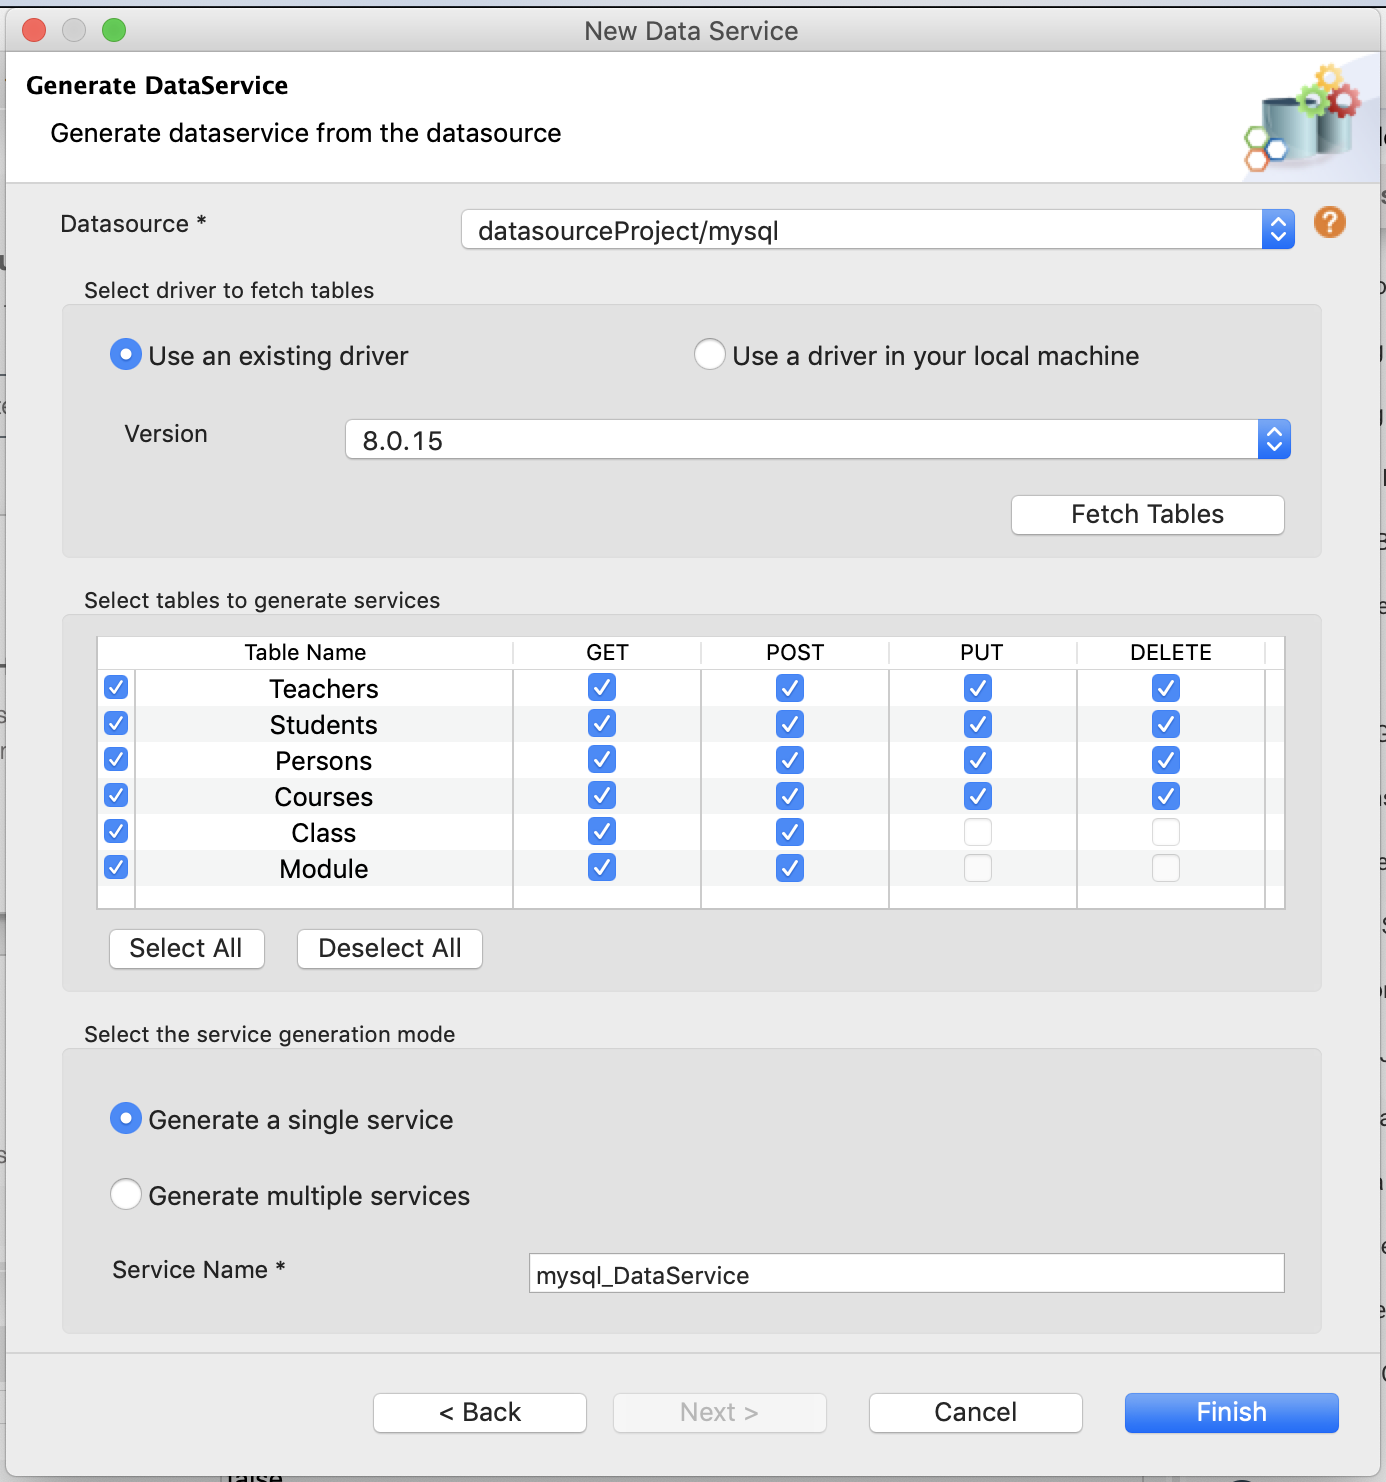
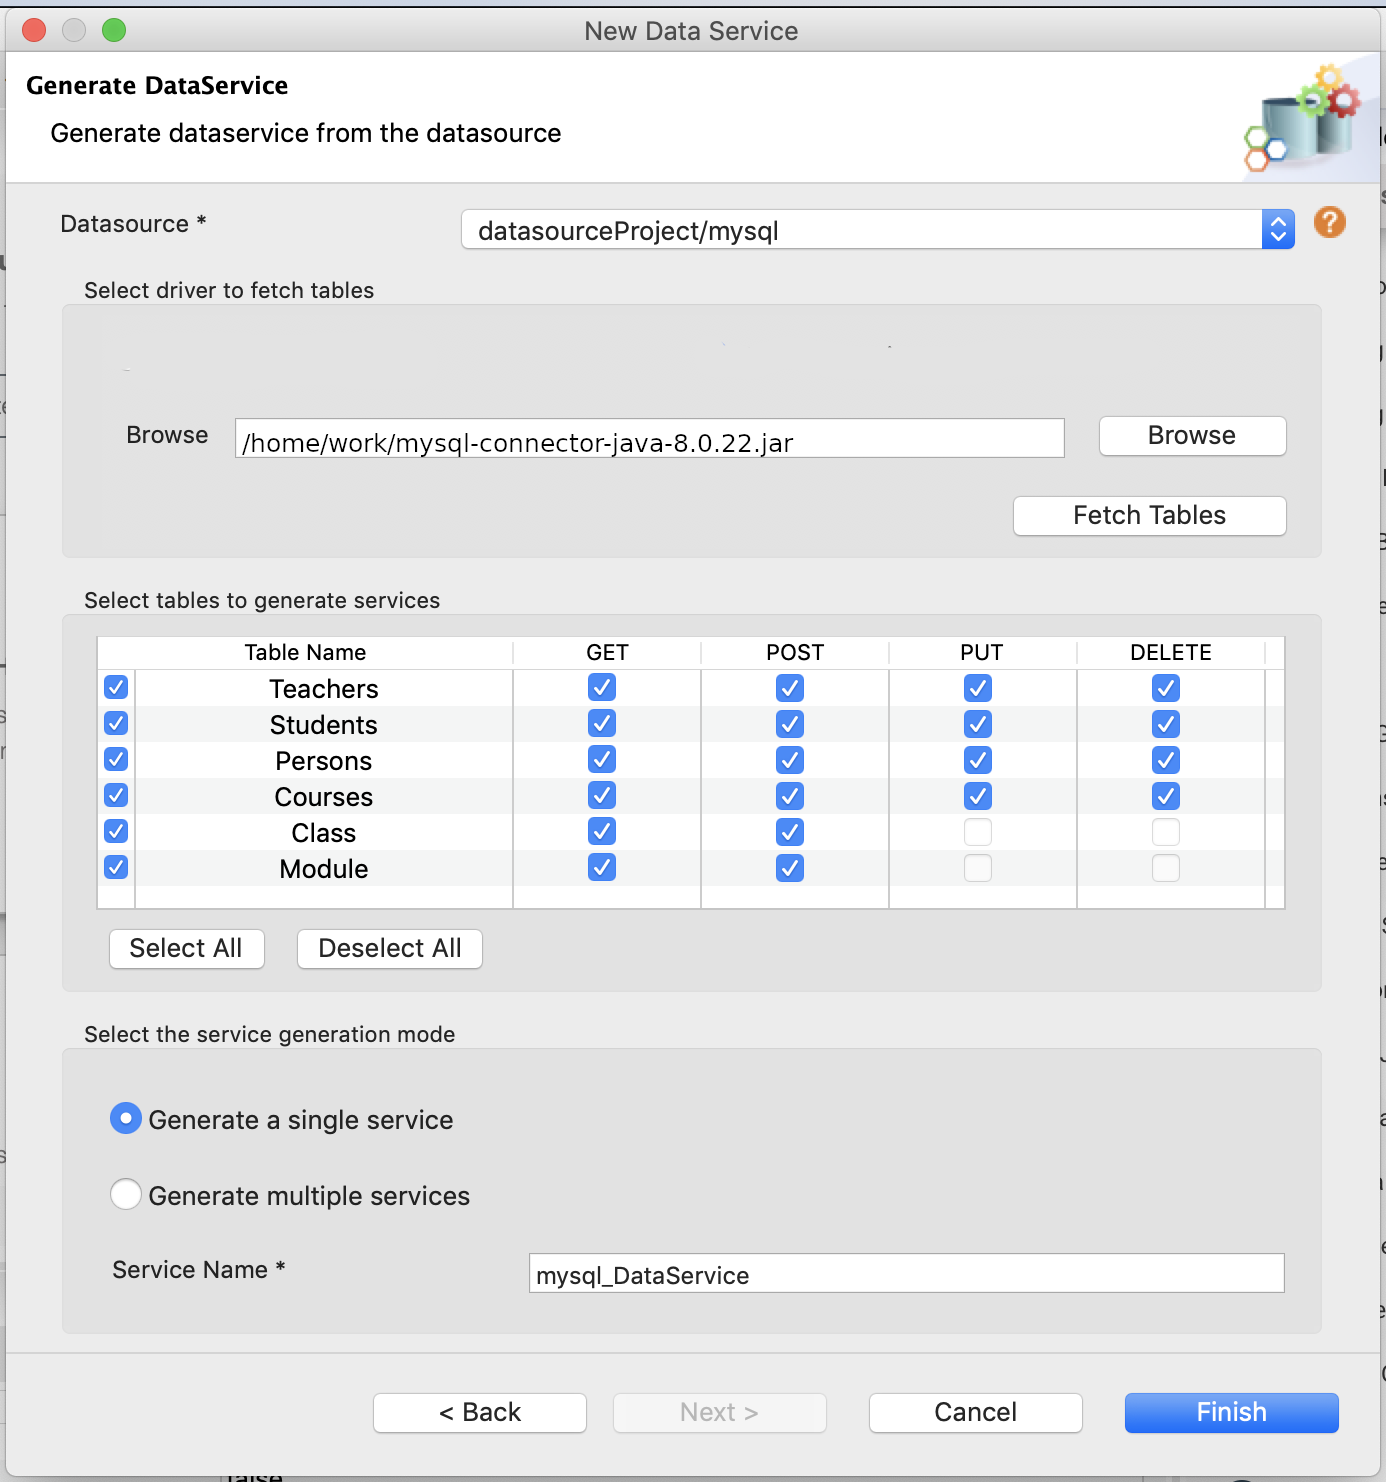
Remove existing JDBC driver option when fetching tables in the dataservice wizard

diff --git a/en/docs/integrate/develop/creating-artifacts/data-services/creating-data-services.md b/en/docs/integrate/develop/creating-artifacts/data-services/creating-data-services.md
@@ -343,14 +343,8 @@ datasource and automatically creates the SELECT, INSERT, UPDATE, and DELETE oper
 	
     <a href="{{base_path}}/assets/img/integrate/tutorials/data_services/generate_dataservice_select_datasource.png"><img src="{{base_path}}/assets/img/integrate/tutorials/data_services/generate_dataservice_select_datasource.png" width="700"></a>
 
-4. 	Select the driver to connect to the datasource. There are two ways to select a driver:
+4. 	Select the driver to connect to the datasource. You need to browse and upload a driver from your file system.
 
-	-	You can use an existing driver from the Integration Studio. You can select the driver version from the drop down.
-
-    <a href="{{base_path}}/assets/img/integrate/tutorials/data_services/select_existing_driver.png"><img src="{{base_path}}/assets/img/integrate/tutorials/data_services/select_existing_driver.png" width="700"></a>
-
-	-	You can browse and upload a driver from your file system.
-	
     <a href="{{base_path}}/assets/img/integrate/tutorials/data_services/select_driver_file_system.png"><img src="{{base_path}}/assets/img/integrate/tutorials/data_services/select_driver_file_system.png" width="700"></a>
 
     Then click **Fetch Table** to list down all avaialble tables in the selected datasource.
